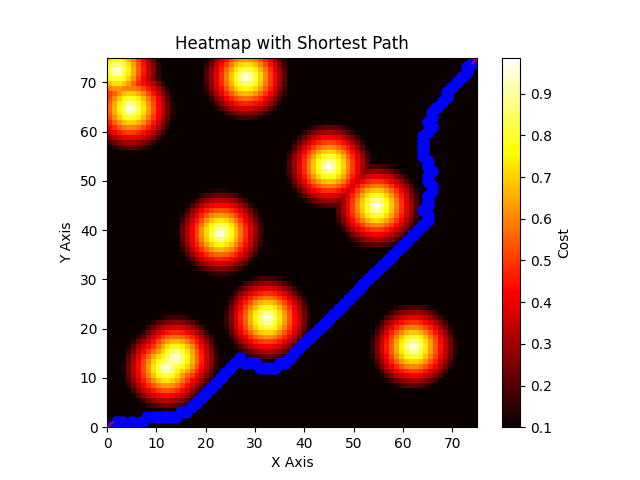
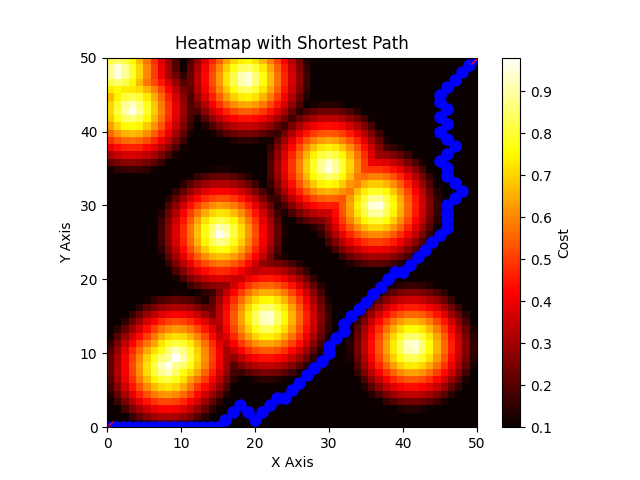
getting close with the start and end points

diff --git a/discrete/main.py b/discrete/main.py
@@ -12,35 +12,57 @@ I.e. we are searching for the path of least resistance.
 
 
 def cost_function(cow_coord: np.ndarray, rumo_coord: np.ndarray):
-    """_summary_
+    """Cost function to compute the cost to stay on this given node to a cow.
 
     Args:
-        cow_coord (np.ndarray): _description_
-        rumo_coord (np.ndarray): _description_
+        cow_coord (np.ndarray): the 2d coordinate of a cow.
+        rumo_coord (np.ndarray): the current 2d coordinate of rumo.
     """
     crit_dist = 10    # critical distance between cows [m] closer than this will lead to rumo barking
     
     return max(1 - np.linalg.norm(cow_coord - rumo_coord)/crit_dist, 0.1)
+
+def swap_nodes_csr(G, i, j):
+    """Swap nodes i and j in the csr graph
+
+    Args:
+        G (csr_matrix): The graph
+        i (int): The index of the first node
+        j (int): The index of the second node
+
+    Returns:
+        csr_matrix: The swapped graph
+    """
+    # Convert to LIL format for easier row and column manipulation
+    G = G.tolil()
+
+    # Swap rows i and j
+    G[[i, j], :] = G[[j, i], :]
+
+    # Swap columns i and j
+    G[:, [i, j]] = G[:, [j, i]]
+
+    return G.tocsr()
     
 
 
-def build_voronoi_graph(obst_coord: np.ndarray, x_length: float = 1, y_length: float = 1) -> np.ndarray:
-    """This function computes the 2D Voronoi Map of the cows field in an discrete way.
-        Thew algorithm computes a head map of how close rumo is allowed to come.
+def build_graph(obst_coord: np.ndarray, x_length: float = 1, y_length: float = 1, grid_spacing: float = 1):
+    """This function computes the heatmap of the cows as a graph.
+        The algorithm computes a head map of how close rumo is allowed to come.
         Graph is connected by the 8 neighbours.
 
     Args:
-        obst_coord (np.ndarray): [description]
-        x_length (float, optional): [description]. Defaults to 1.
-        y_length (float, optional): [description]. Defaults to 1.
+        obst_coord (np.ndarray): The 2d coordinates of all the cows
+        x_length (float, optional): The x length of the field. Defaults to 1.
+        y_length (float, optional): The y length of the field. Defaults to 1.
+        grid_spacing (float, optional): The spacing of the grid points [m]. Defaults to 1.
 
     Returns:
         np.ndarray: The grid points with their weights shape (n_total_points, 3)
-        np.ndarray: The graph shape (n_total_points, n_total_points)
+        csr matrix: The graph of shape (n_total_points*8, 3)
     """
-    point_spacing = 1      # spacing of the grid points [m]
-    n_grid_points_x = int(x_length/point_spacing + 1)    # number of grid points in the x-dimension
-    n_grid_points_y = int(y_length/point_spacing + 1)    # number of grid points in the y-dimension
+    n_grid_points_x = int(x_length/grid_spacing + 1)    # number of grid points in the x-dimension
+    n_grid_points_y = int(y_length/grid_spacing + 1)    # number of grid points in the y-dimension
     n_total_points = n_grid_points_x*n_grid_points_y
     
     # Step 1: Generate equally spaced points between in the x and y dimensions
@@ -65,13 +87,13 @@ def build_voronoi_graph(obst_coord: np.ndarray, x_length: float = 1, y_length: f
         # store the cost
         grid_point[2] = cost
 
-    
+
     # create the dense matrix for the graph (zero means no connection)
     graph = np.zeros((n_total_points, n_total_points))
     
     # now transform node weights into edge weights
     # nodes are connected by the 8 neighbours
-    # we have to be careful with the boundary conditions
+    # we have to be careful with the boundaries as we don't want to go out of bounds.
     # 
     #   y
     #   ^
@@ -81,39 +103,39 @@ def build_voronoi_graph(obst_coord: np.ndarray, x_length: float = 1, y_length: f
     #
     for i in range(n_total_points):
         
-        # left
+        # left boundary
         if i % n_grid_points_x != 0:
             graph[i, i-1] = (grid_points[i, 2] + grid_points[i-1, 2])/2
             
-        # right
+        # right boundary
         if i % n_grid_points_x != n_grid_points_x-1:
             graph[i, i+1] = (grid_points[i, 2] + grid_points[i+1, 2])/2
         
-        # top
+        # top boundary
         if i < n_total_points - n_grid_points_x:
             graph[i, i+n_grid_points_x] = (grid_points[i, 2] + grid_points[i+n_grid_points_x, 2])/2
             
-            # top left
+            # top left corner
             if i % n_grid_points_x != 0:
                 graph[i, i+n_grid_points_x-1] = (grid_points[i, 2] + grid_points[i+n_grid_points_x-1, 2])/2
                 
-            # top right
+            # top right corner
             if i % n_grid_points_x != n_grid_points_x-1:
                 graph[i, i+n_grid_points_x+1] = (grid_points[i, 2] + grid_points[i+n_grid_points_x+1, 2])/2
         
-        # bottom
+        # bottom boundary
         if i > n_grid_points_x-1:
             graph[i, i-n_grid_points_x] = (grid_points[i, 2] + grid_points[i-n_grid_points_x, 2])/2
             
-            # bottom left
+            # bottom left corner
             if i % n_grid_points_x != 0:
                 graph[i, i-n_grid_points_x-1] = (grid_points[i, 2] + grid_points[i-n_grid_points_x-1, 2])/2
             
-            # bottom right
+            # bottom right corner
             if i % n_grid_points_x != n_grid_points_x-1:
                 graph[i, i-n_grid_points_x+1] = (grid_points[i, 2] + grid_points[i-n_grid_points_x+1, 2])/2
 
-    # convert the graph into a sparse matrix (for efficiency)
+    # convert the graph into CSR format (for efficiency)
     graph = csr_matrix(graph)
 
     return grid_points, graph
@@ -125,13 +147,13 @@ def main():
     It consists of:
     
     1. Building the Problem field
-    2. Computing the special Voronoi Map
-    3. Converting it into a weighted Graph
-    4. Shortest Path Algorithm
+    2. Computing the 2d heatmap of the cows in the field
+    3. Converting the heatmap into a weighted graph
+    4. Compute shortest path
     5. Plot
     """
     
-    # Step 1: Let's build the problem field
+    #### Step 1: Let's build the problem field
     if len(sys.argv) >= 4:
         x_length = int(sys.argv[1])
         y_length = int(sys.argv[2])
@@ -145,22 +167,34 @@ def main():
     else:
         x_length = 50        # x coordinate of the cows field [m]
         y_length = 50        # y coordinate of the cows field [m]
-        n_obst = 10           # number of obsticles (cows)
-    
+        n_obst = 10          # number of obsticles (cows)
+        
+        np.random.seed(42)   # seed for the random number generator
+        
+    grid_spacing = 1        # spacing of the grid points [m]
     
     obst_coord = np.random.rand(n_obst, 2)
     
     obst_coord[:,0] *= x_length
     obst_coord[:,1] *= y_length
 
-    # Step 2 & 3: Let's build the heat map via a self-made voronoi approach as we need to store the weights of the points
-    grid_points, graph = build_voronoi_graph(obst_coord, x_length, y_length)
+    #### Step 2 & 3: Let's build the heat map via a self-made voronoi approach as we need to store the weights of the points
+    grid_points, graph = build_graph(obst_coord, x_length, y_length, grid_spacing)
     
     # define the starting and end points (as indices in the graph)
     start_coord = 0
     end_coord = -1
     
-    # Step 4: Compute the shortest path
+    start_coord = int(np.random.random_sample()*x_length + 0.5)
+    end_coord = int(np.random.random_sample()*x_length + 0.5)
+    
+    print(start_coord, end_coord)
+    
+    print(graph)
+    
+    # as the first 
+    
+    #### Step 4: Compute the shortest path
     dist_matrix, predecessors = shortest_path(csgraph=graph, directed=False, indices=start_coord, return_predecessors=True)
     
     # Backtrack to find the shortest path from source to destination
@@ -177,13 +211,16 @@ def main():
     y_coords = grid_points[path, 1]
     
     
-    # Step 5: Plot
+    #### Step 5: Plot
+    
+    # Plot the shortest path
     plt.plot(x_coords, y_coords, marker='o', linestyle='-', color='blue', markersize=8)
     
+    # Plot the start and end points
     plt.plot(grid_points[start_coord, 0], grid_points[start_coord, 1], marker='x', linestyle='-', color='red', markersize=8)
     plt.plot(grid_points[end_coord, 0], grid_points[end_coord, 1], marker='x', linestyle='-', color='red', markersize=8)
 
-    # Show the plot
+    # Plot the heatmap
     weights = grid_points[:, 2].reshape((y_length+1, x_length+1))
     plt.imshow(weights, origin='lower', extent=(0, x_length, 0, y_length), cmap='hot', interpolation='nearest')
     plt.colorbar(label='Cost')

diff --git a/discrete/todo.md b/discrete/todo.md
@@ -1,0 +1,5 @@
+- [ ] Improve code documentations
+- [ ] Split step 2&3 into separate functions
+- [ ] Give the option to chose the start and end point
+- [ ] sys.argv not yet working
+- [x] plt.show() get it running? (just run Xlaunch)
